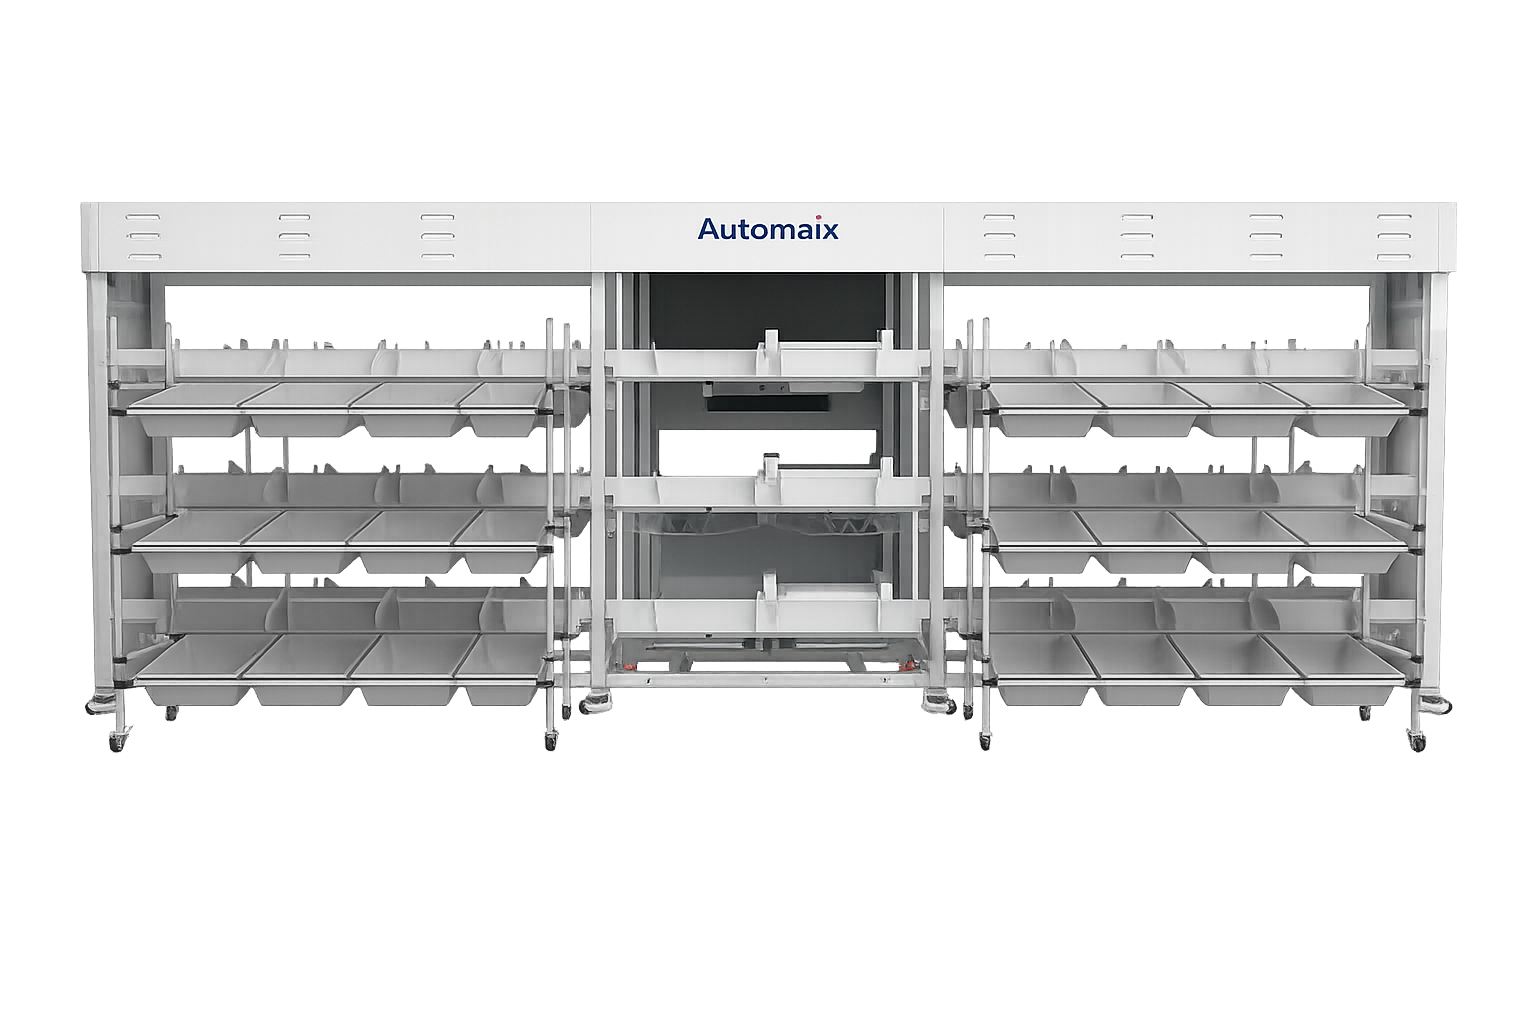
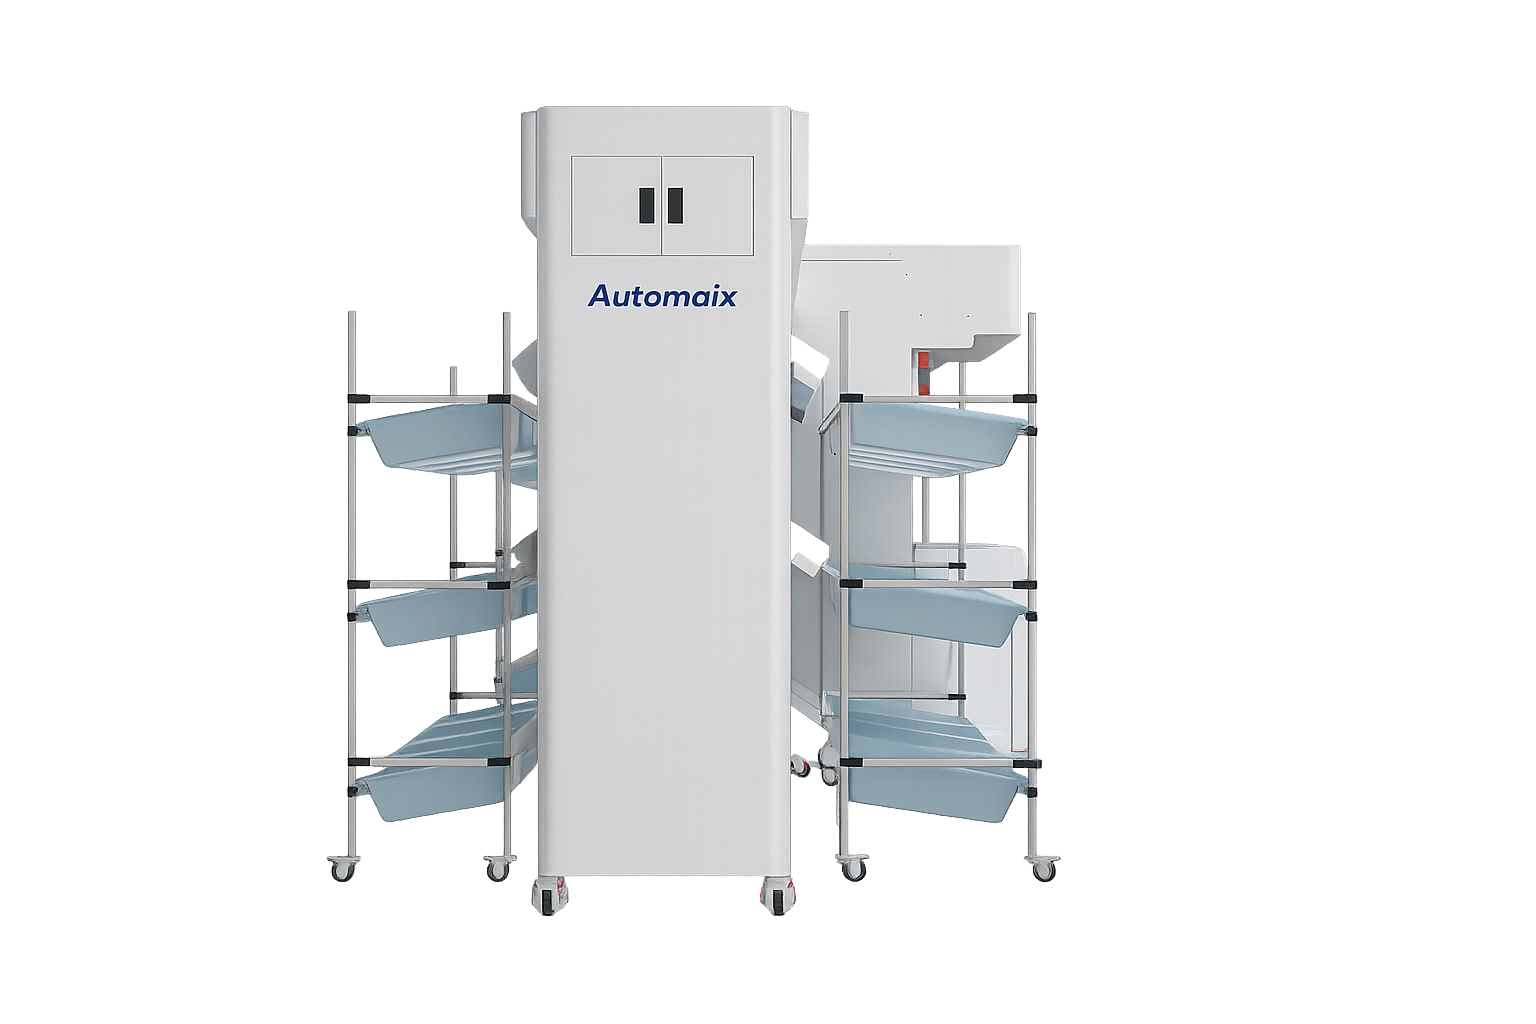
製品画像を全面更新：新規レンダー/実機写真を追加、スライドシューソーター新設、単品分離の破損画像を修正

diff --git a/index.html b/index.html
@@ -246,7 +246,7 @@
         }
         .prod-card:hover .prod-link { gap: 0.6rem; }
         .prod-gallery {
-            display: grid; grid-template-columns: repeat(4, 1fr); gap: 1rem;
+            display: grid; grid-template-columns: repeat(auto-fit, minmax(190px, 1fr)); gap: 1rem;
             margin-top: 1.5rem;
         }
         .prod-gallery-item {
@@ -727,11 +727,11 @@
                             <div class="gallery-label">正面画面</div>
                         </div>
                         <div class="prod-gallery-item">
-                            <img src="images/tsubame-05.png" alt="おつばめちゃん 側面">
+                            <img src="images/tsubame-04.png" alt="つばめちゃん 側面">
                             <div class="gallery-label">側面</div>
                         </div>
                         <div class="prod-gallery-item">
-                            <img src="images/tsubame-06.png" alt="おつばめちゃん 上面">
+                            <img src="images/tsubame-05.png" alt="つばめちゃん 上面">
                             <div class="gallery-label">上面</div>
                         </div>
                     </div>
@@ -762,7 +762,7 @@
                         </div>
                     </div>
                     <div class="prod-card fade-up">
-                        <div class="prod-img"><img src="images/product7.png" alt="クロスベルトソーター"></div>
+                        <div class="prod-img"><img src="images/crossbelt-render.png" alt="クロスベルトソーター"></div>
                         <div class="prod-body">
                             <div class="prod-num">PRODUCT 02</div>
                             <h3>クロスベルトソーター</h3>
@@ -793,6 +793,30 @@
                             <span class="prod-link">詳細を見る →</span>
                         </div>
                     </div>
+                    <div class="prod-card fade-up">
+                        <div class="prod-img"><img src="images/slideshoe-photo.jpg" alt="スライドシューソーター"></div>
+                        <div class="prod-body">
+                            <div class="prod-num">PRODUCT 05</div>
+                            <h3>スライドシューソーター</h3>
+                            <p>スライドシュー（滑片）で荷物を横方向へ押し出す高速ソーター。多品種・多方面の仕分けに柔軟に対応し、モジュール設計で据付・拡張も容易です。</p>
+                            <div class="prod-specs">
+                                <span class="prod-spec">高速仕分け</span>
+                                <span class="prod-spec">多方向対応</span>
+                                <span class="prod-spec">モジュール設計</span>
+                            </div>
+                            <span class="prod-link">詳細を見る →</span>
+                        </div>
+                    </div>
+                </div>
+                <div class="prod-gallery fade-up">
+                    <div class="prod-gallery-item">
+                        <img src="images/crossbelt-photo.jpg" alt="クロスベルトソーター 実機">
+                        <div class="gallery-label">クロスベルト 実機写真</div>
+                    </div>
+                    <div class="prod-gallery-item">
+                        <img src="images/wheel-photo.jpg" alt="高速ホイールソーター 実機">
+                        <div class="gallery-label">高速スイングアーム 実機写真</div>
+                    </div>
                 </div>
             </div>
 
@@ -805,7 +829,7 @@
                 </div>
                 <div class="products-grid">
                     <div class="prod-card fade-up">
-                        <div class="prod-img"><img src="images/single-separation.png" alt="単品分離システム"></div>
+                        <div class="prod-img"><img src="images/single-render.png" alt="単品分離システム"></div>
                         <div class="prod-body">
                             <div class="prod-num">PRODUCT 01</div>
                             <h3>単品分離システム</h3>
@@ -817,6 +841,16 @@
                             </div>
                             <span class="prod-link">詳細を見る →</span>
                         </div>
+                    </div>
+                </div>
+                <div class="prod-gallery fade-up">
+                    <div class="prod-gallery-item">
+                        <img src="images/single-system.jpg" alt="単品分離システム 全景">
+                        <div class="gallery-label">システム全景</div>
+                    </div>
+                    <div class="prod-gallery-item">
+                        <img src="images/single-photo.jpg" alt="単品分離システム 実機">
+                        <div class="gallery-label">実機写真</div>
                     </div>
                 </div>
             </div>
@@ -1004,7 +1038,7 @@
                 </div>
                 <div class="products-grid">
                     <div class="prod-card fade-up">
-                        <div class="prod-img"><img src="images/fig5.png" alt="ナノベルト"></div>
+                        <div class="prod-img"><img src="images/nanobelt-render.png" alt="ナノベルトソーター"></div>
                         <div class="prod-body">
                             <div class="prod-num">PRODUCT 01</div>
                             <h3>ナノベルトソーター</h3>
@@ -1029,7 +1063,7 @@
                 </div>
                 <div class="products-grid">
                     <div class="prod-card fade-up">
-                        <div class="prod-img"><img src="images/fig5.png" alt="モジュールベルトソーター"></div>
+                        <div class="prod-img"><img src="images/modbelt-photo.jpg" alt="モジュールベルトソーター"></div>
                         <div class="prod-body">
                             <div class="prod-num">PRODUCT 01</div>
                             <h3>モジュールベルトソーター</h3>
